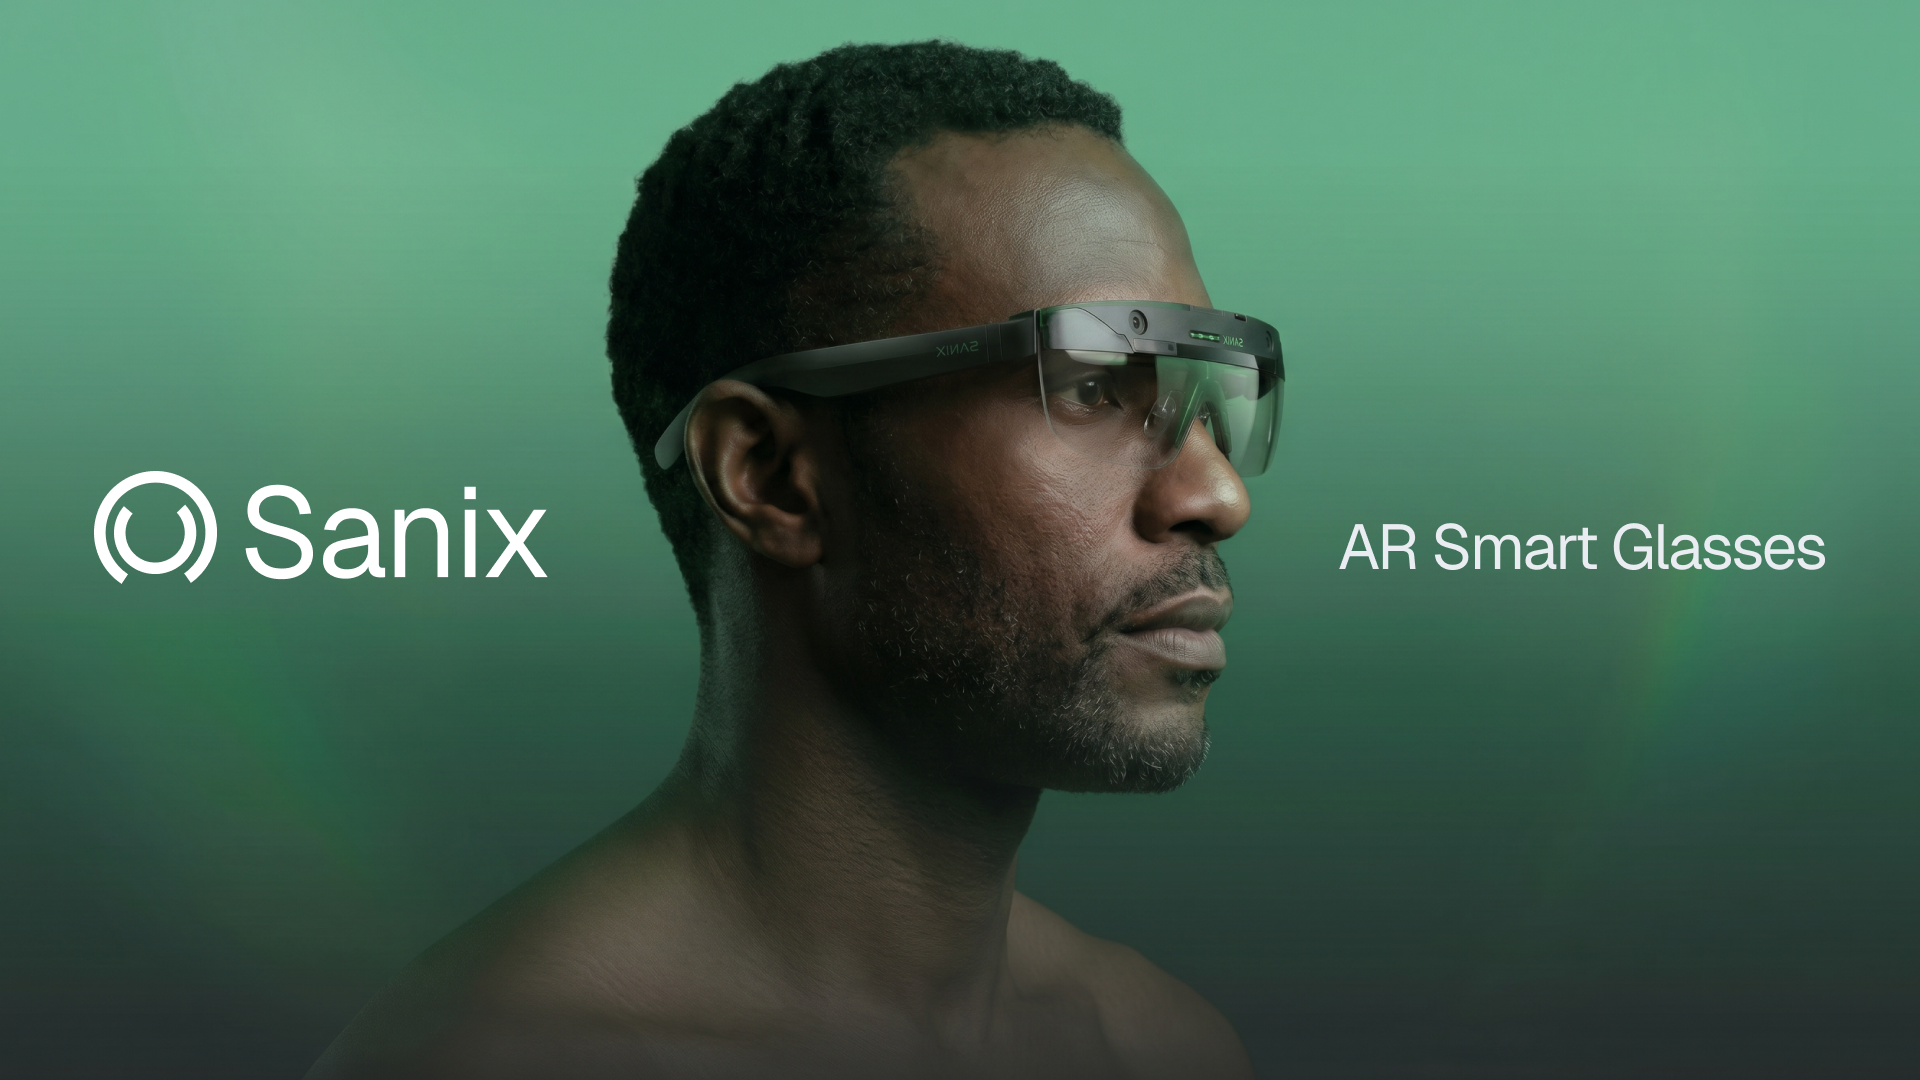
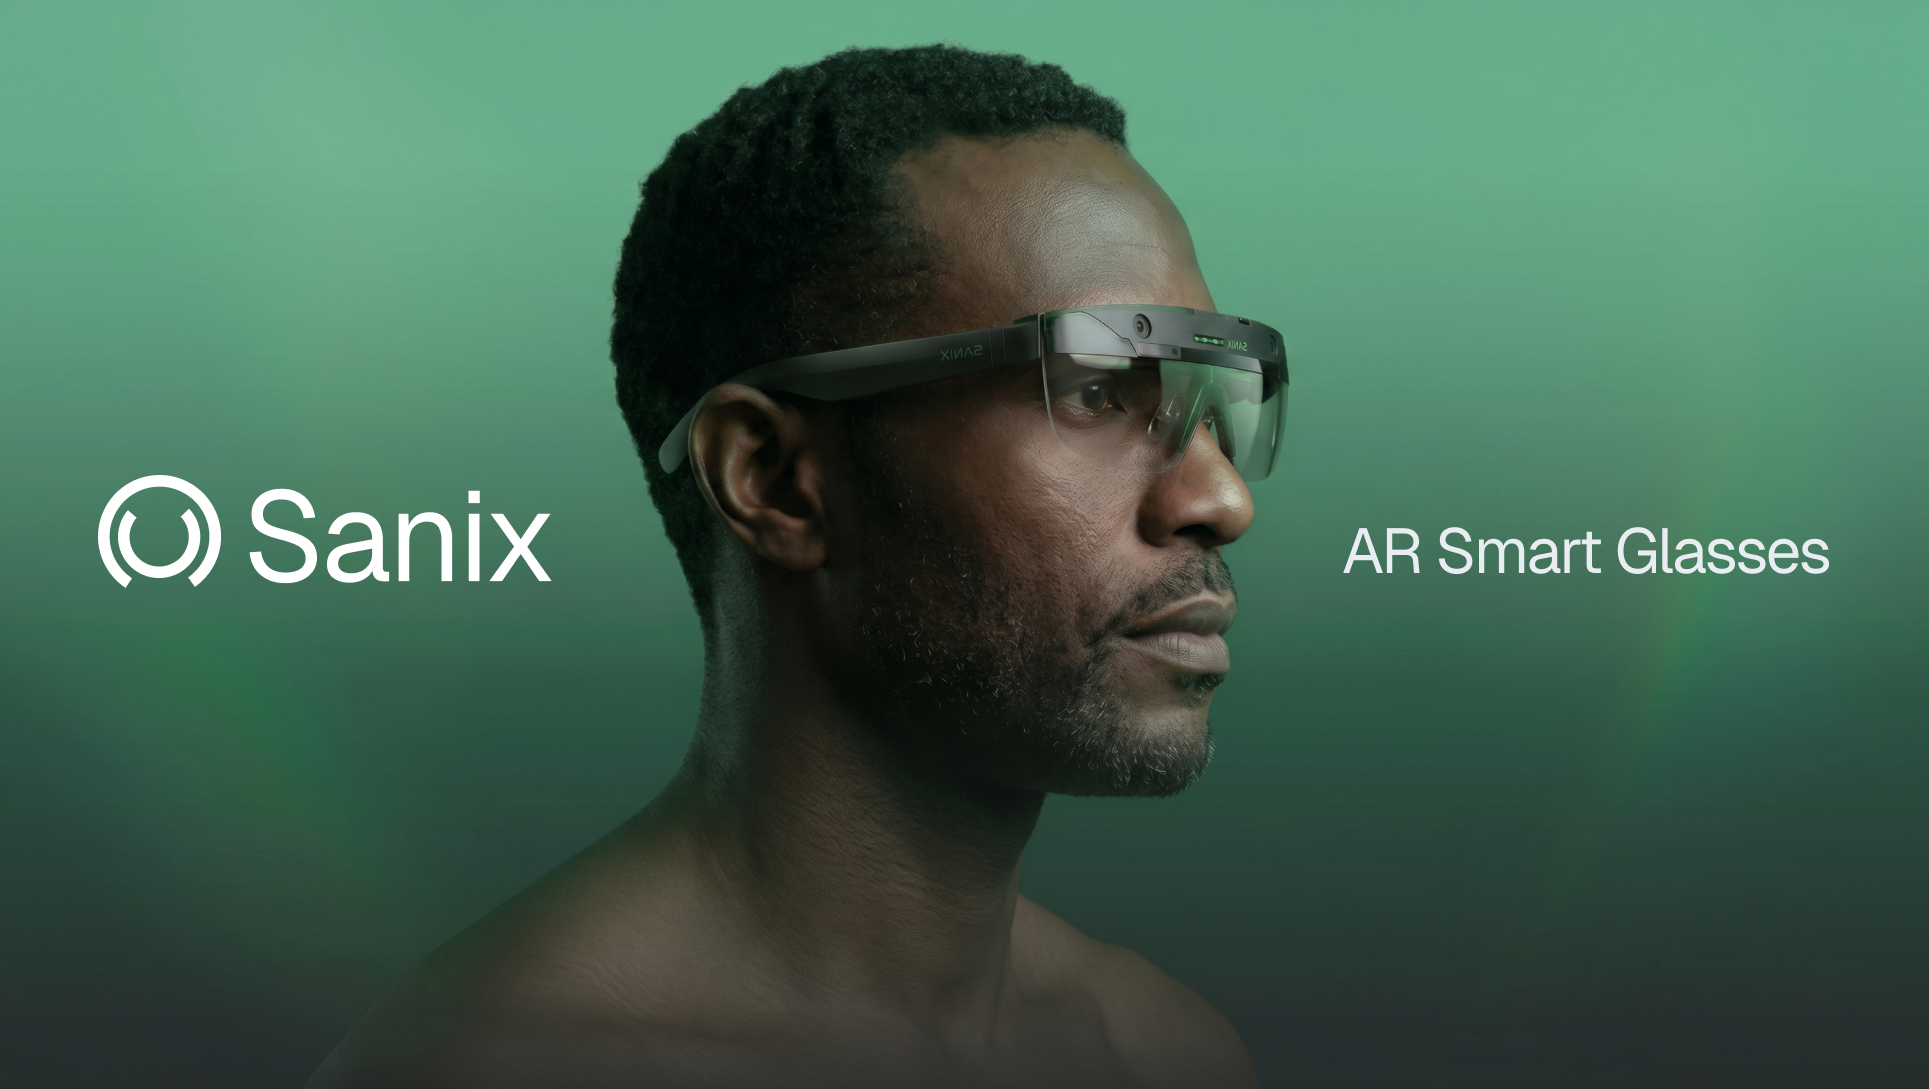
mobile 26

diff --git a/taxlens.html b/taxlens.html
@@ -475,11 +475,46 @@
             .sidebar { display: none; }
             .main { padding: 2rem 1.5rem; }
             .project-title { font-size: 1.8rem; }
-            .img-two-col { grid-template-columns: 1fr; }
+            .img-two-col { gap: 0.8rem; }
             .project-meta { flex-wrap: wrap; gap: 2rem; }
             .cursor { display: none; }
             .m-menu-btn { display: block; }
             .nav-links { display: none; }
+
+            .competitor-logos {
+                gap: 0.5rem;
+                margin-bottom: 1.2rem;
+            }
+            .competitor-logos img {
+                height: 80px;
+                padding: 0.8rem 1rem;
+                border-radius: 6px;
+            }
+
+            .img-four-col {
+                grid-template-columns: 1fr 1fr;
+                gap: 0.8rem;
+            }
+
+            .stat-cards {
+                grid-template-columns: 1fr;
+                gap: 0.6rem;
+                margin-bottom: 3rem;
+            }
+            .stat-card {
+                padding: 1.5rem 1.3rem;
+                min-height: auto;
+            }
+            .stat-label {
+                white-space: normal;
+            }
+            .stat-number {
+                font-size: 2.5rem;
+                margin-top: 0.8rem;
+                margin-bottom: 0.4rem;
+            }
+
+            .desktop-only { display: none; }
         }
 
         .m-menu-btn {
@@ -777,10 +812,13 @@
             <div class="text-section" id="reflection">
                 <p class="section-label">[ Reflection ]</p>
                 <h2 class="section-title">Future & Takeaways</h2>
-                <p class="section-body">Key reflections and future directions focused on improving scalability, usability, and trust in AI-assisted tax workflows. Through this project, I learned that designing for multi-stakeholder systems requires not just optimizing individual tasks, but carefully structuring how information flows between clients, accountants, and AI. If given more time, I would further validate edge cases with real users, refine error handling and fallback scenarios, and explore more proactive AI guidance, ensuring the system not only reduces friction, but also builds long-term confidence in human–AI collaboration.</p>
+                <p class="section-body">Key reflections and future directions focused on improving scalability, usability, and trust in AI-assisted tax workflows. Through this project, I learned that designing for multi-stakeholder systems requires not just optimizing individual tasks, but carefully structuring how information flows between clients, accountants, and AI.<span class="desktop-only"> If given more time, I would further validate edge cases with real users, refine error handling and fallback scenarios, and explore more proactive AI guidance, ensuring the system not only reduces friction, but also builds long-term confidence in human–AI collaboration.</span></p>
             </div>
             <div class="img-full">
-                <img src="assets/images/Website_Images/Taxlens/7-1.png" alt="TaxLens Competitors">
+                <picture>
+                    <source media="(max-width: 768px)" srcset="assets/images/Website_Images/Taxlens/7.png">
+                    <img src="assets/images/Website_Images/Taxlens/7-1.png" alt="TaxLens Competitors">
+                </picture>
             </div>
 
         </div>

diff --git a/index.html b/index.html
@@ -115,7 +115,7 @@
         .tags-row {
             display: flex;
             flex-wrap: wrap;
-            gap: 1.5rem;
+            gap: 1.3rem;
             justify-content: flex-end;
             max-width: 420px;
             margin: 0 0 4rem auto;
@@ -333,8 +333,9 @@
             /* hide nav links, show only logo */
             .nav-links { display: none; }
 
-            /* hide footer on mobile */
-            footer { display: none; }
+            /* mobile footer: keep desktop design but more compact */
+            footer { padding: 1rem 1.2rem; }
+            .footer-links { gap: 1.4rem; }
 
             .hero {
                 grid-template-columns: 1fr;
@@ -353,6 +354,19 @@
             .nav-links { display: none; }
             .cursor { display: none; }
             .desktop-only { display: none; }
+
+            .tags-row {
+                max-width: 80%;
+                gap: 0.8rem;
+                margin-top: 4em;
+                margin-bottom: 2em;
+            }
+
+            .tag {
+                font-size: 75%;
+                padding: 0.5em 1em;
+                border-width: 1px;
+            }
         }
 
         .m-menu-btn {
@@ -476,7 +490,7 @@
         <!-- Left: headline at bottom -->
         <div class="hero-text">
             <!-- <span class="hero-label">Hi, I'm Julie!</span> -->
-            <h1>Julie Choi is a <span style="color:#aaa">NYC-based product <br> designer</span> bridging <span style="color:#aaa">strategy</span> and <span style="color:#aaa">intuition</span> <br> to design <span style="color:#aaa">human-centered services.</span></h1>
+            <h1>Julie Choi is a <span style="color:#aaa">NYC-based product <br class="desktop-only"> designer</span> bridging <span style="color:#aaa">strategy</span> and <span style="color:#aaa">intuition</span> <br class="desktop-only"> to design <span style="color:#aaa">human-centered services.</span></h1>
         </div>
 
     </section>
@@ -518,7 +532,7 @@
 
             <div class="grid-item">
                 <a href="sanix.html">
-                    <div class="thumb"><img src="assets/images/Main/Sanix1.png" alt="Sanix"></div>
+                    <div class="thumb"><img src="assets/images/Main/Sanix.png" alt="Sanix"></div>
                         <div class="caption">
                         <span class="title">AI/AR Glasses: Making Invisible Risk Visible</span>
                         <span class="meta">SANIX · UXUI 2026</span>

diff --git a/gmailfunnel.html b/gmailfunnel.html
@@ -412,11 +412,26 @@
             .sidebar { display: none; }
             .main { padding: 2rem 1.5rem; }
             .project-title { font-size: 1.8rem; }
-            .img-two-col { grid-template-columns: 1fr; }
+            .img-two-col { gap: 0.8rem; }
             .project-meta { flex-wrap: wrap; gap: 2rem; }
             .cursor { display: none; }
             .m-menu-btn { display: block; }
             .nav-links { display: none; }
+
+            .competitor-logos {
+                gap: 0.5rem;
+                margin-bottom: 1.2rem;
+            }
+            .competitor-logos img {
+                height: 80px;
+                padding: 0.8rem 1rem;
+                border-radius: 6px;
+            }
+
+            .img-four-col {
+                grid-template-columns: 1fr 1fr;
+                gap: 0.8rem;
+            }
         }
 
         .m-menu-btn {
@@ -737,23 +752,11 @@
                 <img src="assets/images/Website_Images/Funnel/9-2.png" alt="">
             </div> -->
 
-            <div class="img-slideshow-col">
-                <div class="slideshow">
-                    <img src="assets/images/Website_Images/Funnel/9-4.png" alt="">
-                    <img src="assets/images/Website_Images/Funnel/9-1.png" alt="">
-                    <div class="slideshow-dots">
-                        <div class="dot active"></div>
-                        <div class="dot"></div>
-                    </div>
-                </div>
-                <div class="slideshow">
-                    <img src="assets/images/Website_Images/Funnel/9-3.png" alt="">
-                    <img src="assets/images/Website_Images/Funnel/9-2.png" alt="">
-                    <div class="slideshow-dots">
-                        <div class="dot active"></div>
-                        <div class="dot"></div>
-                    </div>
-                </div>
+            <div class="img-four-col">
+                <img src="assets/images/Website_Images/Funnel/9-4.png" alt="">
+                <img src="assets/images/Website_Images/Funnel/9-1.png" alt="">
+                <img src="assets/images/Website_Images/Funnel/9-3.png" alt="">
+                <img src="assets/images/Website_Images/Funnel/9-2.png" alt="">
             </div>
 
         </div>
